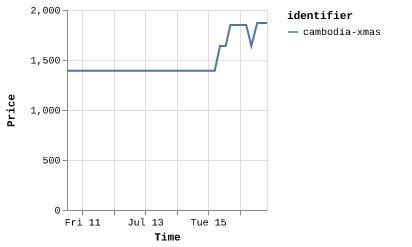
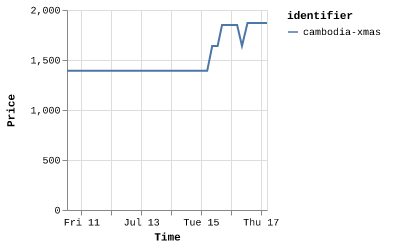
Latest scraping flights: Thu Jul 17 05:02:05 UTC 2025

diff --git a/scrapes/flights/cambodia-xmas.md b/scrapes/flights/cambodia-xmas.md
@@ -1,1 +1,1 @@
-€1,870
+€1,871
